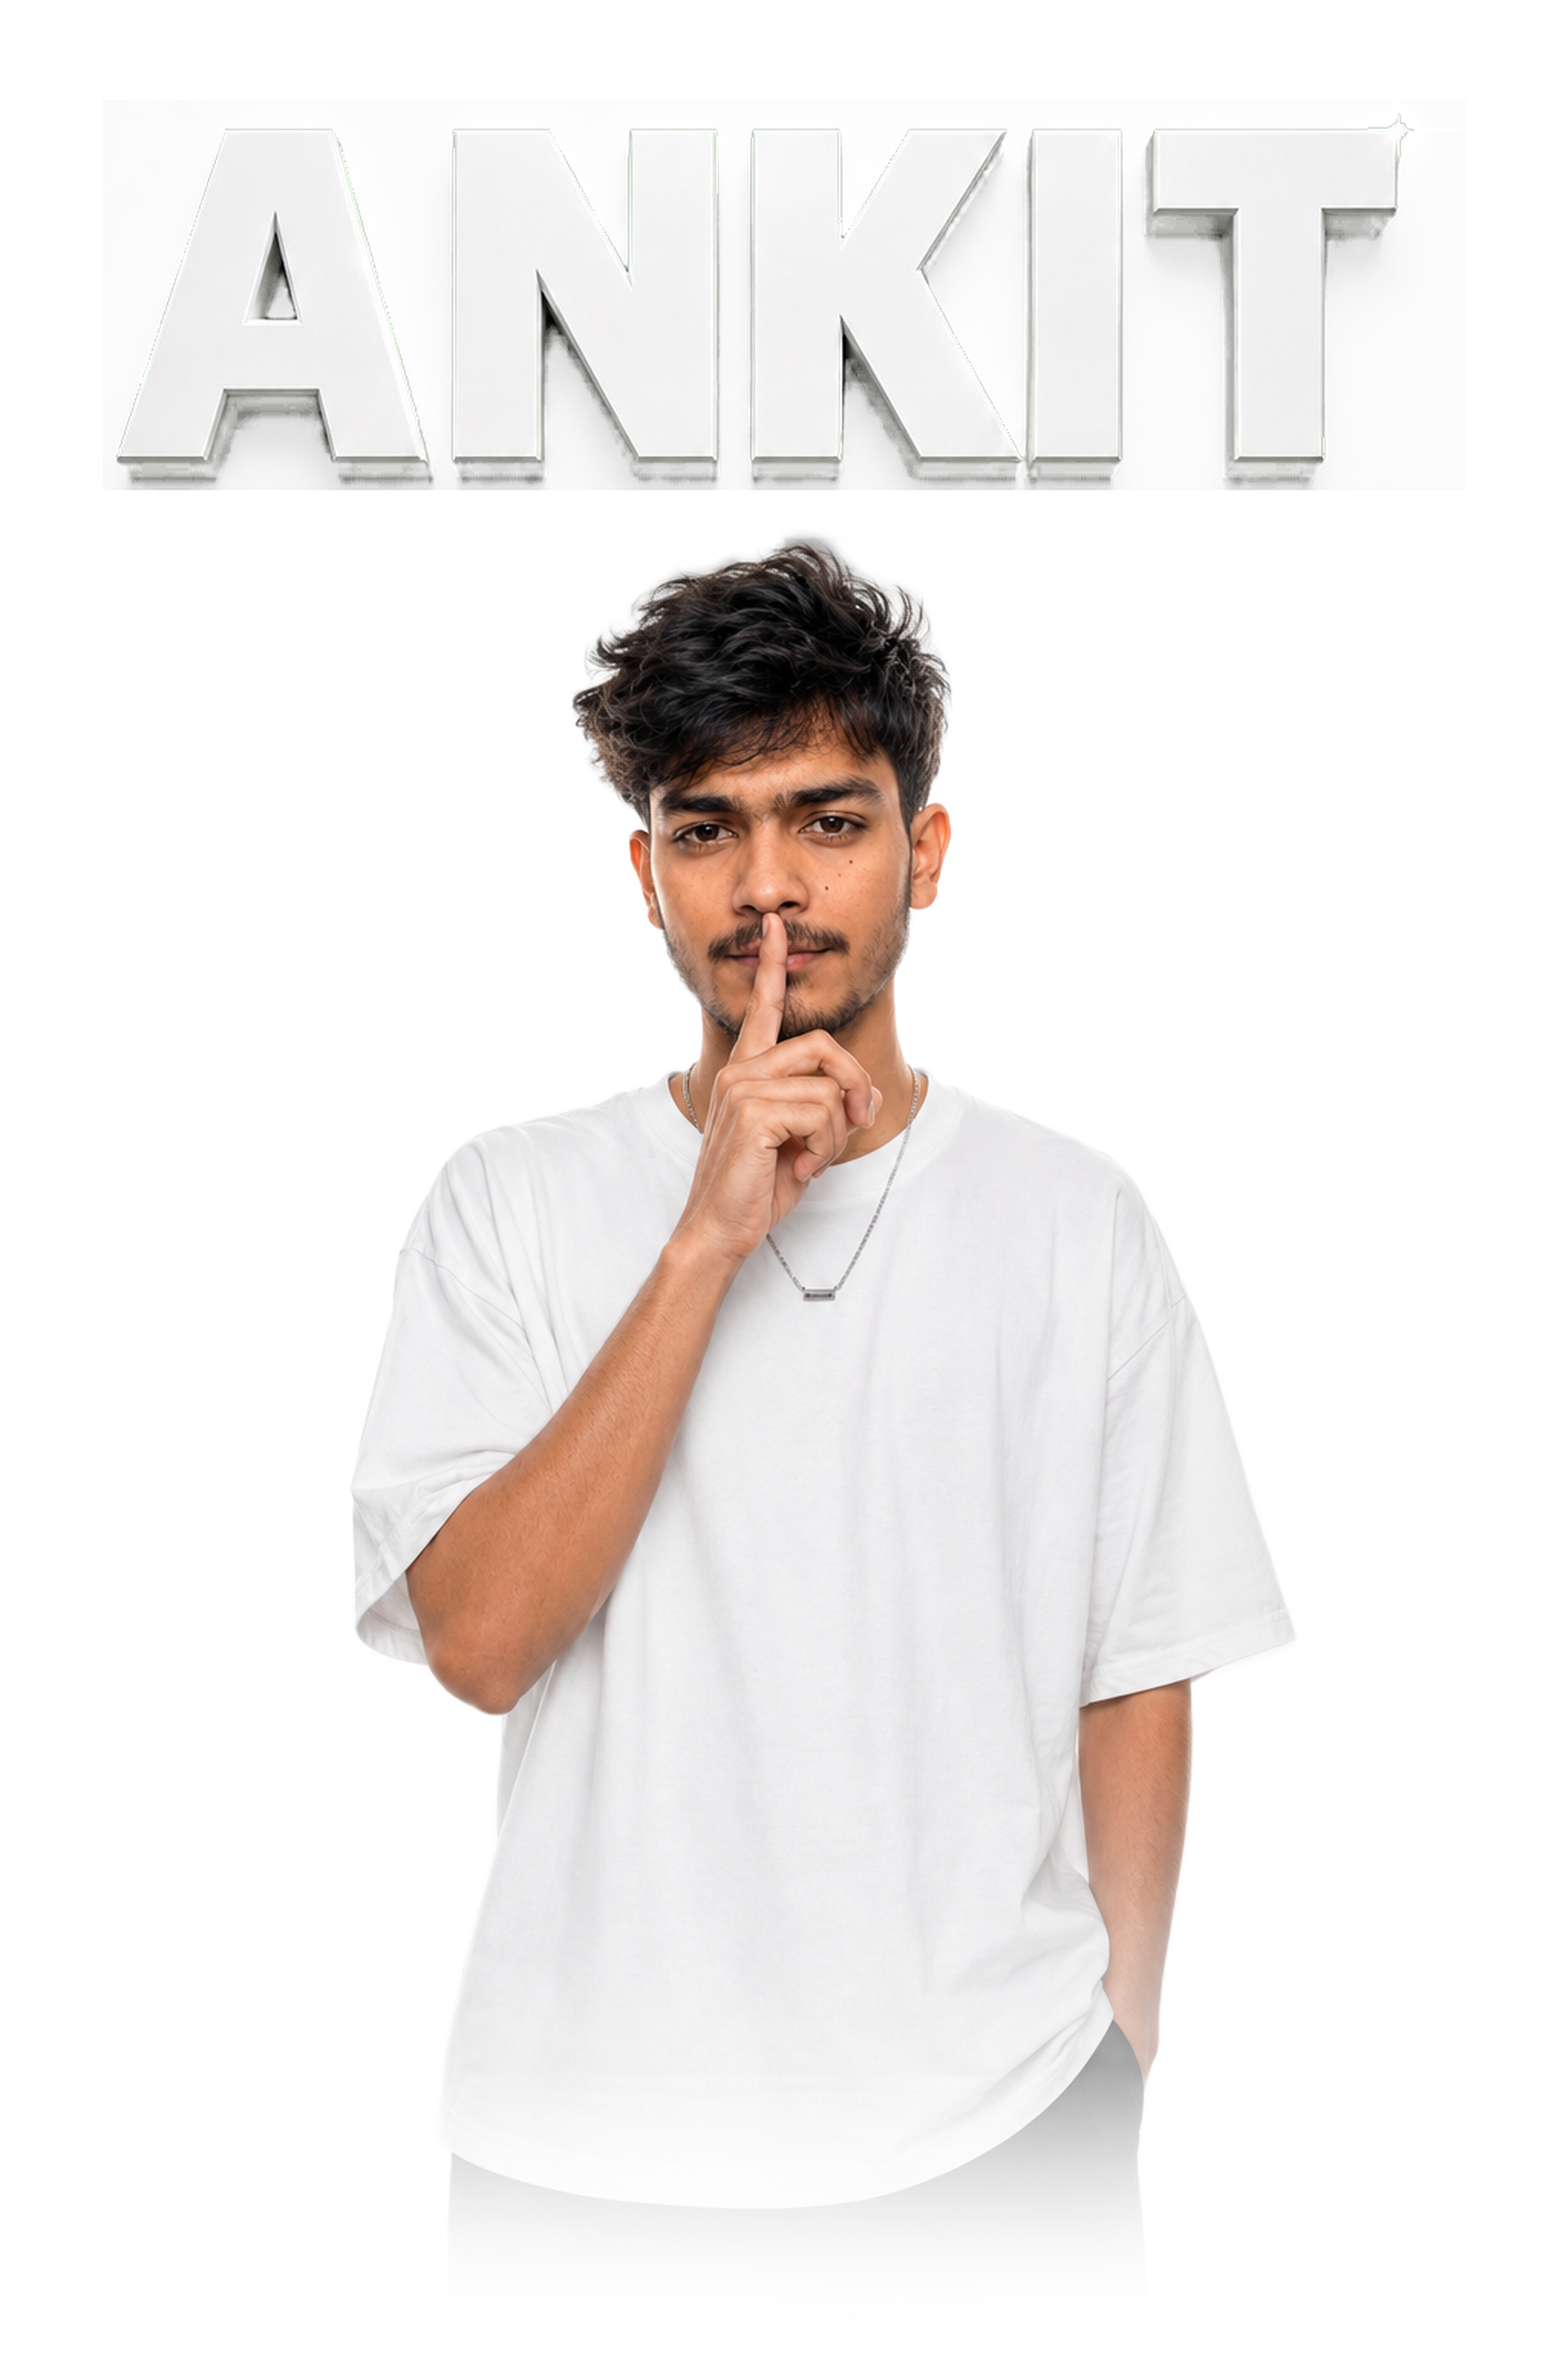
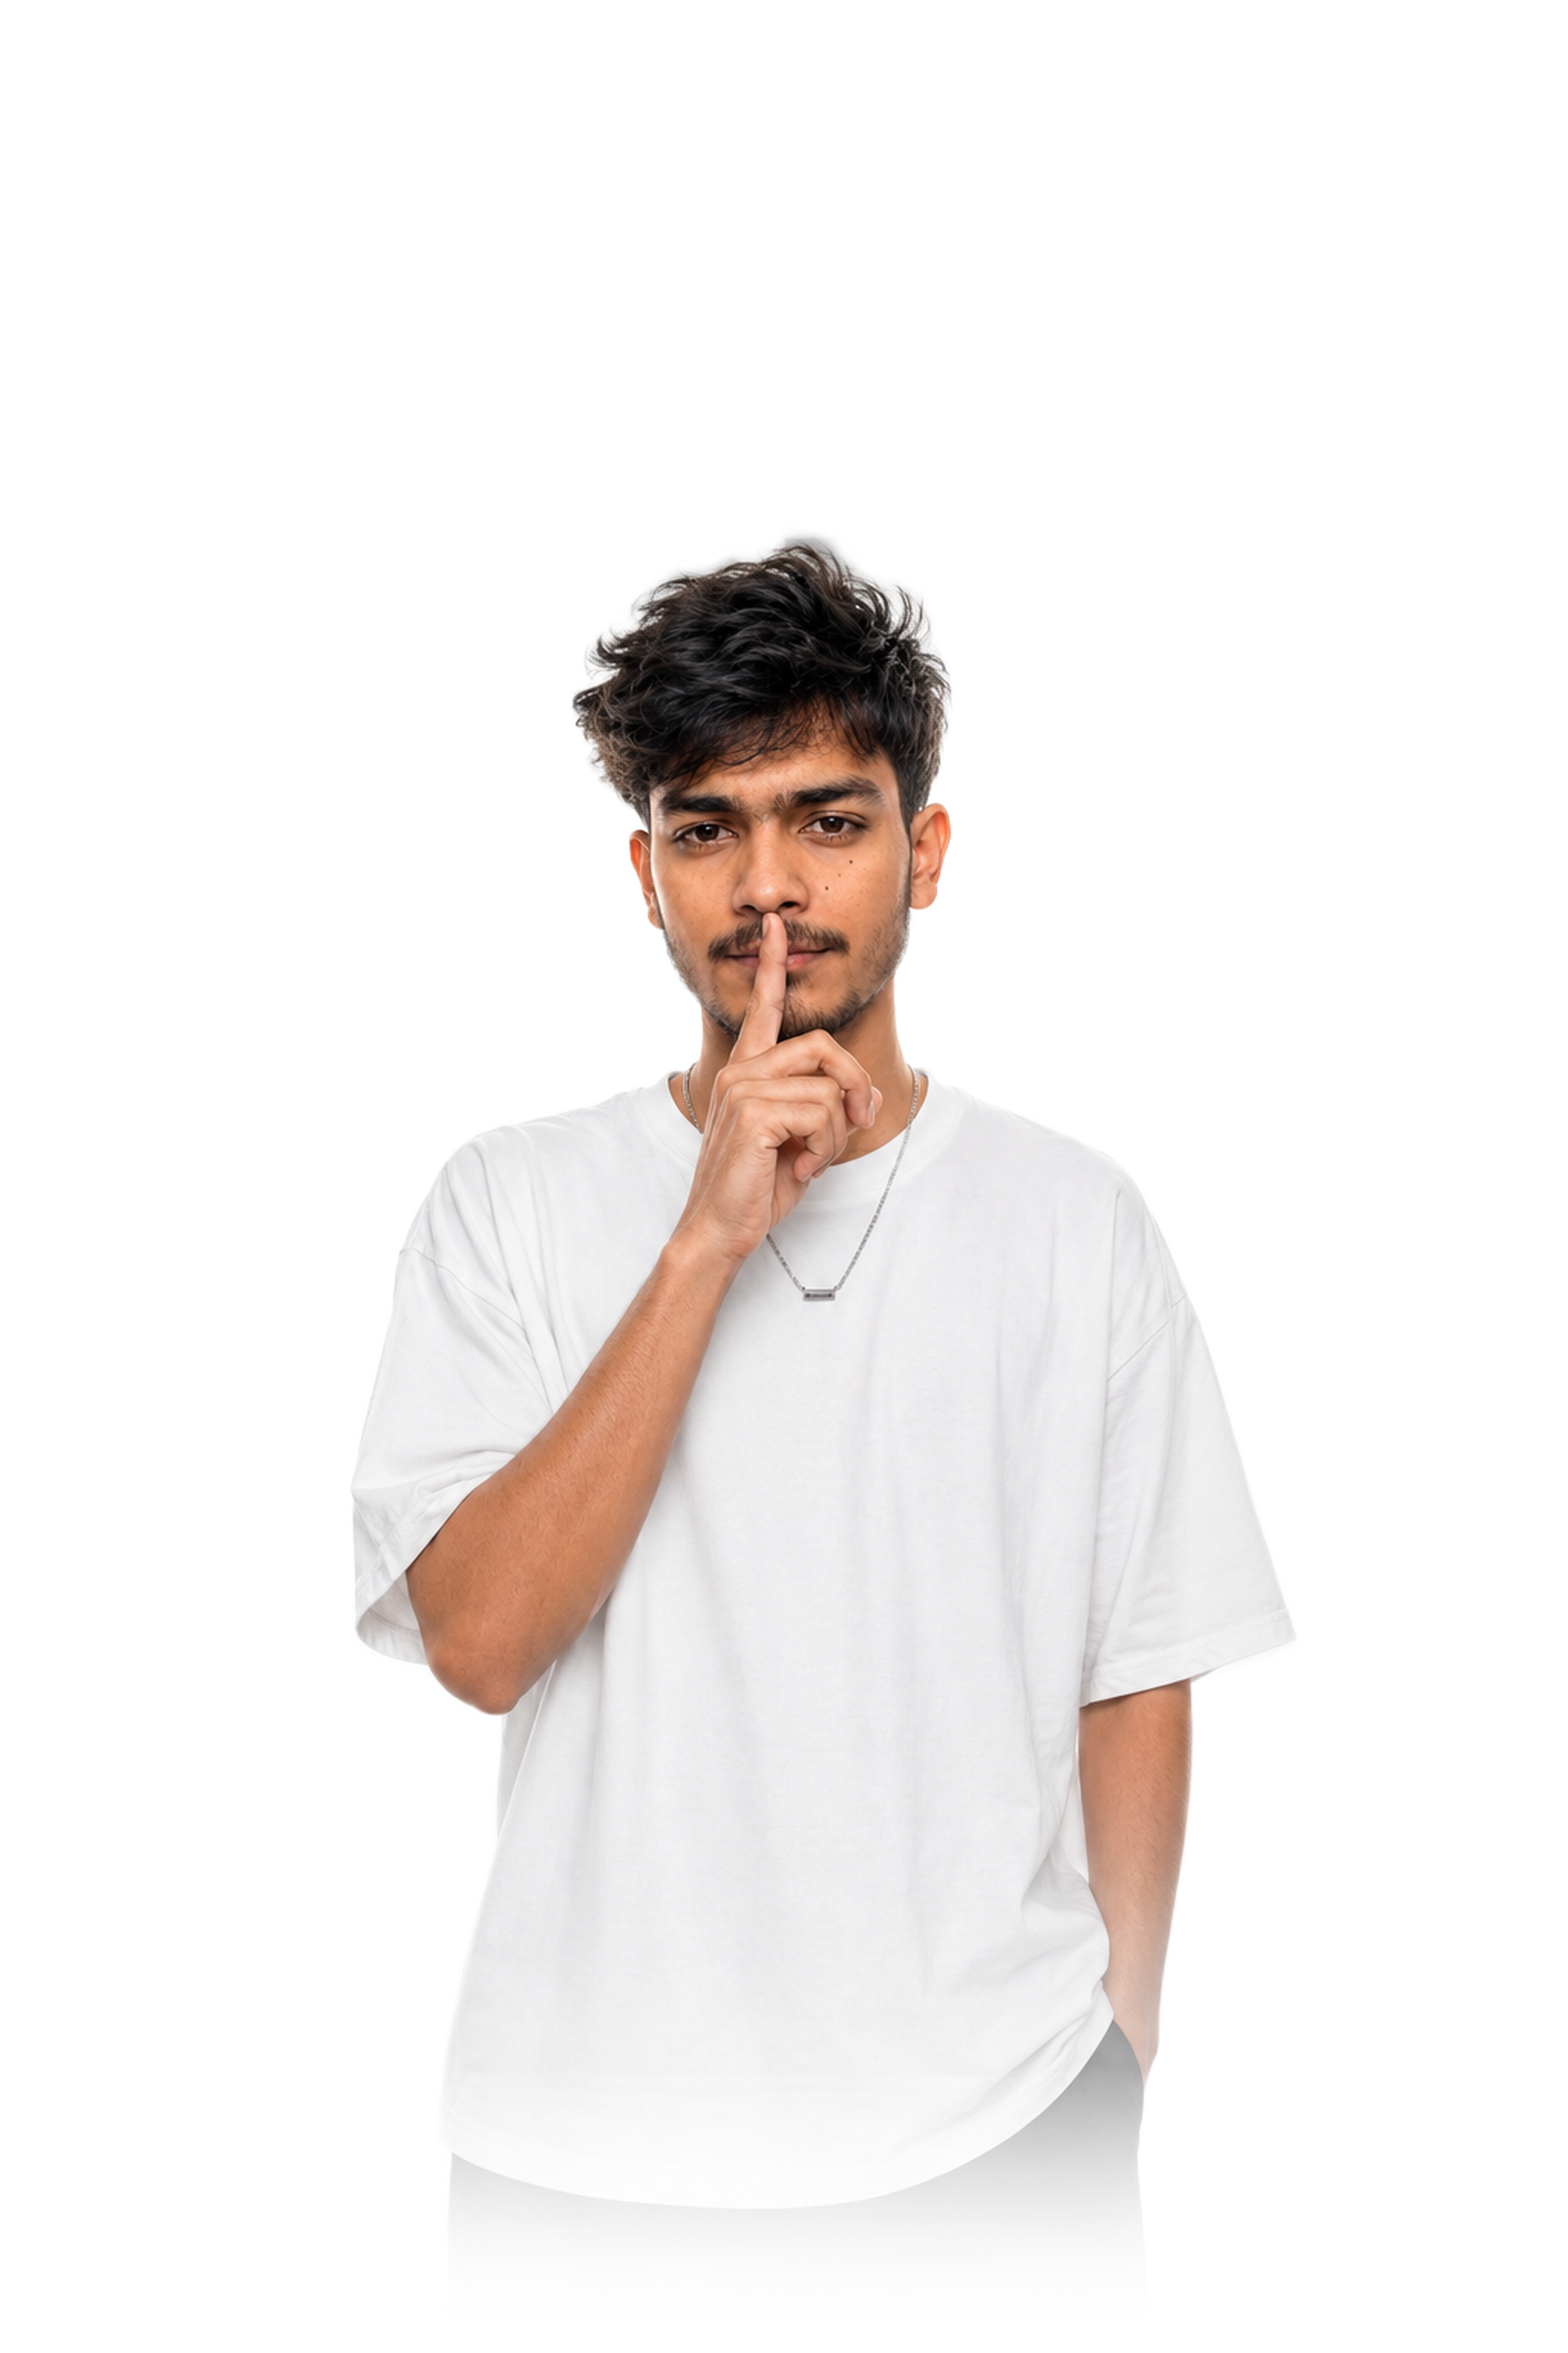
Replace baked PNG hero text with animated 3D HTML ANKIT text element, character-only transparent PNG, and ultra-smooth spring marquee physics

diff --git a/components/Hero.tsx b/components/Hero.tsx
@@ -1,7 +1,7 @@
 "use client";
 
 import Image from "next/image";
-import { motion } from "framer-motion";
+import { motion, useScroll, useTransform, useSpring } from "framer-motion";
 import GhostMarquee from "./GhostMarquee";
 
 const STATS = [
@@ -11,6 +11,12 @@ const STATS = [
 ];
 
 export default function Hero() {
+  const { scrollY } = useScroll();
+
+  // Scroll parallax for 3D text (moves at 40% speed behind character)
+  const rawTextY = useTransform(scrollY, [0, 600], [0, 80]);
+  const textParallax = useSpring(rawTextY, { stiffness: 80, damping: 25 });
+
   return (
     <section
       id="hero"
@@ -36,17 +42,59 @@ export default function Hero() {
         </div>
       </motion.div>
 
-      {/* main portrait — the "pic 1" background image, ANKIT wordmark baked in */}
+      {/* main portrait container */}
       <div className="relative z-10 mx-auto mt-6 w-full max-w-md flex-1 sm:max-w-lg">
+        
+        {/* Layer 2: Real 3D HTML/CSS ANKIT Text (behind character) */}
+        <motion.div
+          style={{ y: textParallax, willChange: "transform" }}
+          className="absolute -top-4 left-0 right-0 z-0 flex justify-center text-center pointer-events-none select-none sm:-top-6"
+        >
+          <motion.h1
+            initial={{ opacity: 0, y: 40, scale: 0.95, filter: "blur(8px)" }}
+            animate={{
+              opacity: 1,
+              y: [0, -3.5, 0],
+              scale: 1,
+              filter: "blur(0px)",
+            }}
+            transition={{
+              opacity: { duration: 0.9, ease: [0.16, 1, 0.3, 1] },
+              y: { repeat: Infinity, duration: 4.5, ease: "easeInOut" },
+              scale: { duration: 0.9, ease: [0.16, 1, 0.3, 1] },
+              filter: { duration: 0.9 },
+            }}
+            className="font-display text-[22vw] sm:text-[135px] md:text-[170px] lg:text-[195px] font-black leading-none tracking-tight text-white"
+            style={{
+              textShadow: `
+                0 1px 0 #e2e8f0,
+                0 2px 0 #cbd5e1,
+                0 3px 0 #94a3b8,
+                0 4px 0 #64748b,
+                0 5px 0 #475569,
+                0 6px 1px rgba(0,0,0,0.12),
+                0 0 5px rgba(0,0,0,0.1),
+                0 1px 3px rgba(0,0,0,0.3),
+                0 3px 6px rgba(0,0,0,0.25),
+                0 8px 16px rgba(0,0,0,0.2),
+                0 16px 24px rgba(0,0,0,0.15)
+              `,
+            }}
+          >
+            ANKIT
+          </motion.h1>
+        </motion.div>
+
+        {/* Layer 3: Character PNG (Ankit, transparent cutout) */}
         <motion.div
           initial={{ opacity: 0, scale: 0.96 }}
           animate={{ opacity: 1, scale: 1 }}
           transition={{ duration: 0.8, ease: [0.16, 1, 0.3, 1] }}
-          className="relative aspect-[4/5] w-full"
+          className="relative z-10 aspect-[4/5] w-full"
         >
           <Image
             src="/images/hero-ankit.png"
-            alt="Ankit, hand raised to lips in a shush gesture, ANKIT wordmark above him"
+            alt="Ankit, hand raised to lips in a shush gesture"
             fill
             priority
             sizes="(max-width: 640px) 100vw, 512px"
@@ -54,13 +102,13 @@ export default function Hero() {
           />
         </motion.div>
 
-        {/* poster's whisper-bubble callout */}
+        {/* Layer 4: Speech-bubble callout */}
         <motion.div
           initial={{ opacity: 0, x: -16 }}
           animate={{ opacity: 1, x: 0 }}
           transition={{ delay: 0.5, duration: 0.5 }}
           whileHover={{ y: -3 }}
-          className="absolute left-0 top-[38%] flex items-center gap-2 rounded-full border border-hairline bg-paper px-3 py-2 shadow-sm sm:-left-6"
+          className="absolute left-0 top-[38%] z-20 flex items-center gap-2 rounded-full border border-hairline bg-paper px-3 py-2 shadow-sm sm:-left-6"
         >
           <span className="font-mono text-[10px] leading-tight text-inkSoft sm:text-xs">
             Shh... building in silence.
@@ -69,7 +117,7 @@ export default function Hero() {
           </span>
         </motion.div>
 
-        {/* poster's B&W polaroid card, replaced with the suited portrait */}
+        {/* Layer 5: Suited polaroid card */}
         <motion.a
           href="#about"
           initial={{ opacity: 0, y: 20, rotate: 6 }}
@@ -78,7 +126,7 @@ export default function Hero() {
           transition={{ delay: 0.3, duration: 0.6, ease: [0.16, 1, 0.3, 1] }}
           whileHover={{ rotate: 0, scale: 1.03 }}
           whileTap={{ scale: 0.97 }}
-          className="absolute -bottom-6 -right-2 w-28 rounded-xl border border-hairline bg-ink p-1.5 shadow-lg sm:-right-8 sm:w-36"
+          className="absolute -bottom-6 -right-2 z-20 w-28 rounded-xl border border-hairline bg-ink p-1.5 shadow-lg sm:-right-8 sm:w-36"
         >
           <div className="relative aspect-[3/4] w-full overflow-hidden rounded-md">
             <Image

diff --git a/components/GhostMarquee.tsx b/components/GhostMarquee.tsx
@@ -1,18 +1,24 @@
 "use client";
 
-import { motion, useScroll, useTransform } from "framer-motion";
+import { motion, useScroll, useTransform, useSpring } from "framer-motion";
 import { useRef } from "react";
 
 export default function GhostMarquee() {
   const ref = useRef<HTMLDivElement>(null);
   const { scrollY } = useScroll();
 
-  // Scroll parallax shifts
-  const x1 = useTransform(scrollY, [0, 800], [0, -120]);
-  const x2 = useTransform(scrollY, [0, 800], [0, 120]);
-  const x3 = useTransform(scrollY, [0, 800], [0, -80]);
+  // Raw scroll transforms
+  const rawX1 = useTransform(scrollY, [0, 1000], [0, -160]);
+  const rawX2 = useTransform(scrollY, [0, 1000], [0, 160]);
+  const rawX3 = useTransform(scrollY, [0, 1000], [0, -120]);
 
-  const rowTransforms = [x1, x2, x3];
+  // Spring physics interpolation for 60fps buttery-smooth motion
+  const springConfig = { stiffness: 70, damping: 26, mass: 0.2 };
+  const smoothX1 = useSpring(rawX1, springConfig);
+  const smoothX2 = useSpring(rawX2, springConfig);
+  const smoothX3 = useSpring(rawX3, springConfig);
+
+  const rowTransforms = [smoothX1, smoothX2, smoothX3];
   const rows = ["BEING FRZI", "BEING FRZI", "BEING FRZI"];
 
   return (
@@ -32,7 +38,7 @@ export default function GhostMarquee() {
             opacity: 1 - i * 0.18,
             willChange: "transform",
           }}
-          className="text-outline font-display text-[16vw] leading-[0.85] tracking-tight whitespace-nowrap sm:text-[11vw] transition-transform duration-75"
+          className="text-outline font-display text-[16vw] leading-[0.85] tracking-tight whitespace-nowrap sm:text-[11vw]"
         >
           {row}
         </motion.span>
